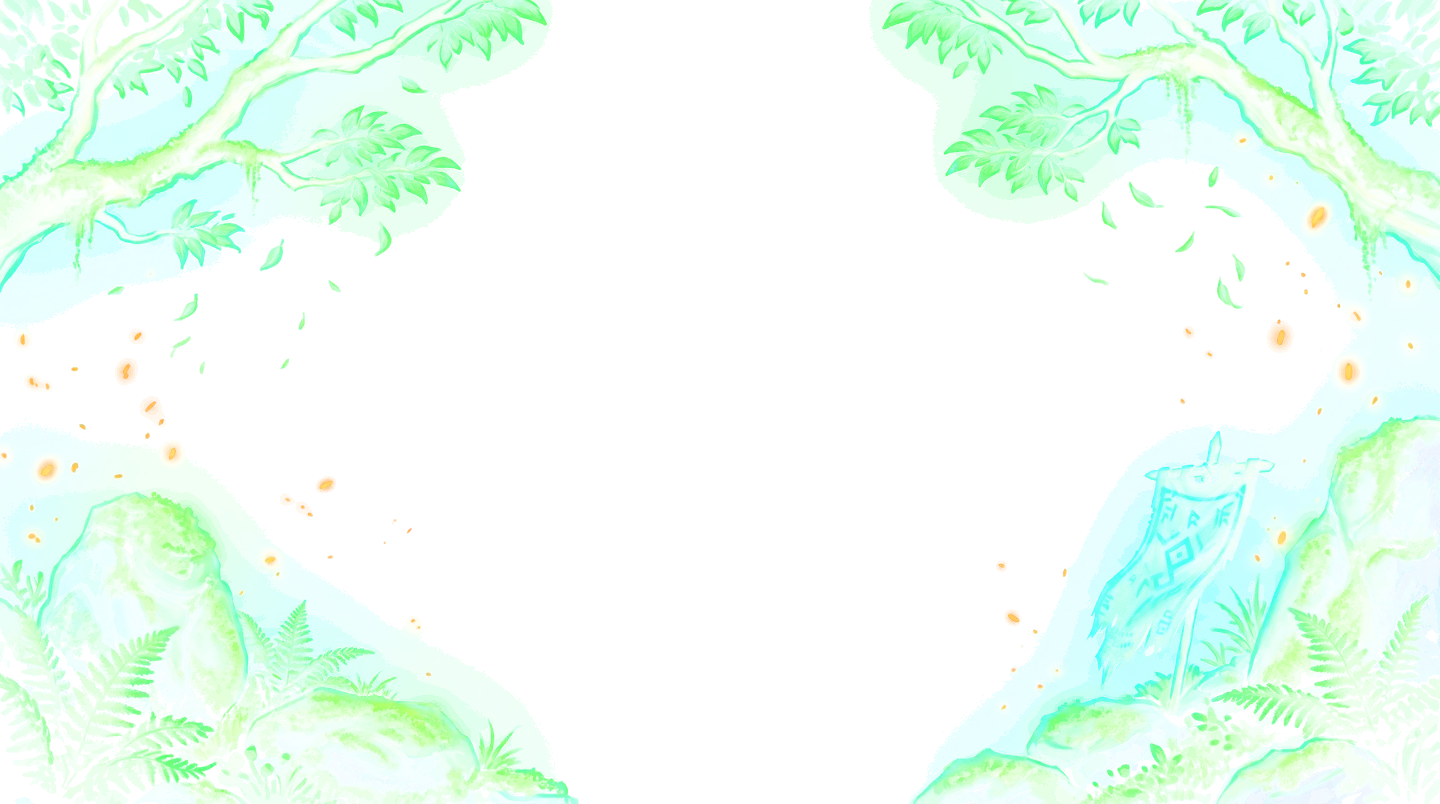
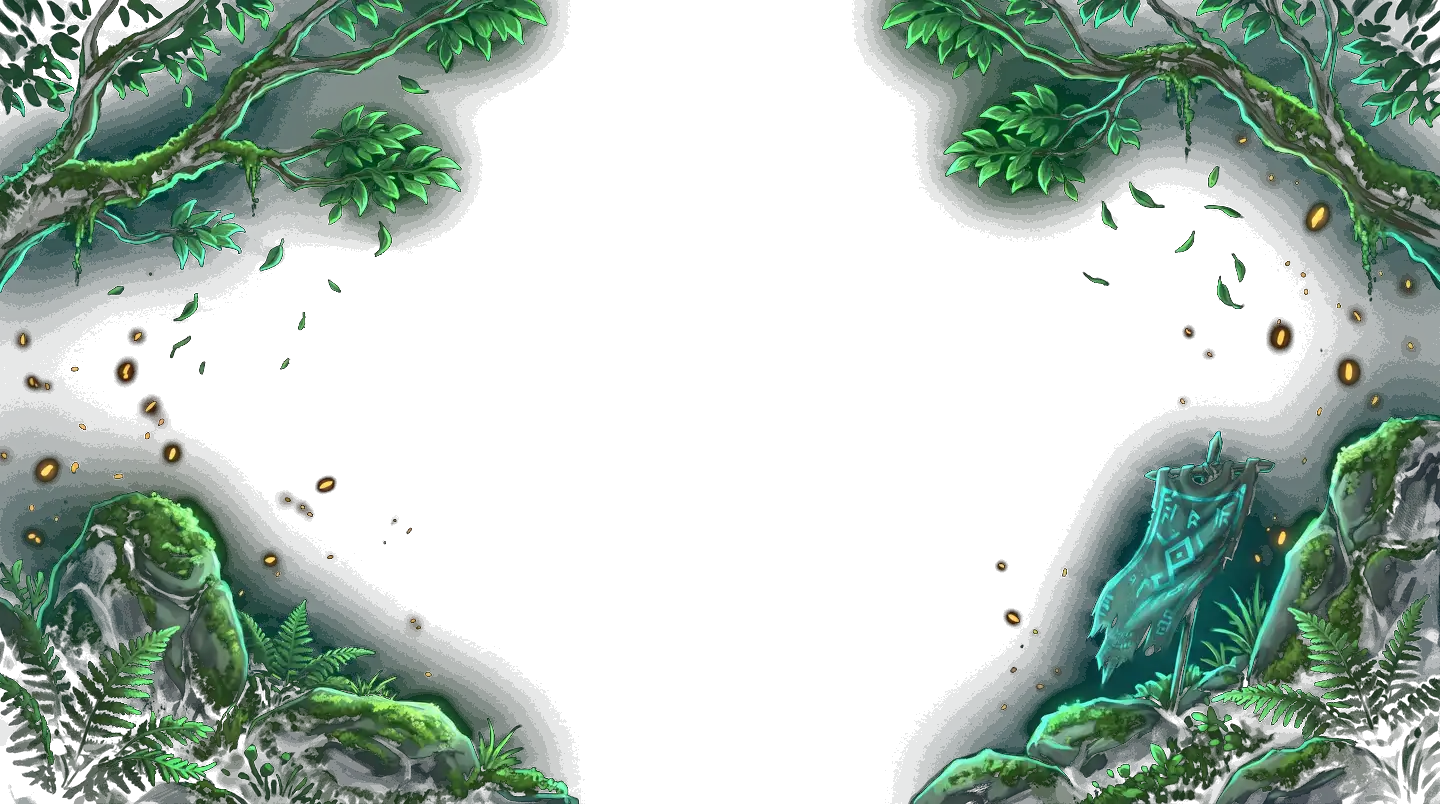
Marcos oscuros y solidos; efectos separados por grupo en Mi Perfil

diff --git a/src/features/auth/components/ProfileMenu.tsx b/src/features/auth/components/ProfileMenu.tsx
@@ -4,7 +4,7 @@ import { CircleUserRound, KeyRound, LogOut } from 'lucide-react'
 import { useAuth } from '@/features/auth/AuthProvider'
 import { useAiEnabled, useAiProfileContext, useSetAiEnabled, useSetAiProfileContext } from '@/features/ai/hooks'
 import { ContextField } from '@/features/ai/components/ContextField'
-import { effectsEnabled, setEffects } from '@/utils/effects'
+import { FX_GROUPS, disabledGroups, setDisabledGroups, type FxGroup } from '@/utils/effects'
 
 export function ProfileMenu() {
   const { session, signOut } = useAuth()
@@ -15,7 +15,12 @@ export function ProfileMenu() {
   const setProfile = useSetAiProfileContext()
   const [profileDraft, setProfileDraft] = useState<string | null>(null)
   const profileText = profileDraft ?? savedProfile
-  const [fx, setFx] = useState(effectsEnabled)
+  const [fxOff, setFxOff] = useState<FxGroup[]>(disabledGroups)
+
+  function updateFx(next: FxGroup[]) {
+    setFxOff(next)
+    setDisabledGroups(next)
+  }
 
   return (
     <div className="relative">
@@ -41,23 +46,35 @@ export function ProfileMenu() {
                 </p>
               )}
             </div>
-            <label className="mt-1 flex cursor-pointer items-start gap-2 rounded-md px-2 py-1.5 hover:bg-surface-2">
-              <input
-                type="checkbox"
-                checked={fx}
-                onChange={(e) => {
-                  setFx(e.target.checked)
-                  setEffects(e.target.checked)
-                }}
-                className="mt-0.5 h-4 w-4 shrink-0 accent-[var(--accent)]"
-              />
-              <span className="text-sm text-fg">
-                Efectos
-                <span className="mt-0.5 block text-xs leading-snug text-fg-muted">
-                  Enredaderas, transiciones y movimiento decorativo. Apágalo si te distrae.
-                </span>
-              </span>
-            </label>
+            <details className="mt-1 rounded-md px-2 py-1.5">
+              <summary className="cursor-pointer select-none text-sm text-fg">
+                Efectos · {FX_GROUPS.length - fxOff.length} de {FX_GROUPS.length} activos
+              </summary>
+              <div className="mt-2 space-y-1">
+                {FX_GROUPS.map((g) => (
+                  <label key={g.key} className="flex cursor-pointer items-start gap-2 rounded-md py-1 hover:bg-surface-2">
+                    <input
+                      type="checkbox"
+                      checked={!fxOff.includes(g.key)}
+                      onChange={(e) => updateFx(e.target.checked ? fxOff.filter((k) => k !== g.key) : [...fxOff, g.key])}
+                      className="mt-0.5 h-4 w-4 shrink-0 accent-[var(--accent)]"
+                    />
+                    <span className="text-sm text-fg">
+                      {g.label}
+                      <span className="block text-xs leading-snug text-fg-muted">{g.hint}</span>
+                    </span>
+                  </label>
+                ))}
+                <div className="flex gap-3 pt-1 font-mono text-xs">
+                  <button type="button" onClick={() => updateFx([])} className="text-accent underline underline-offset-2">
+                    Todos
+                  </button>
+                  <button type="button" onClick={() => updateFx(FX_GROUPS.map((g) => g.key))} className="text-fg-muted underline underline-offset-2">
+                    Ninguno
+                  </button>
+                </div>
+              </div>
+            </details>
             <label className="mt-1 flex cursor-pointer items-start gap-2 rounded-md px-2 py-1.5 hover:bg-surface-2">
               <input
                 type="checkbox"

diff --git a/src/utils/effects.ts b/src/utils/effects.ts
@@ -1,24 +1,47 @@
-// Interruptor de «Efectos» (movimiento decorativo). Se guarda por dispositivo y se aplica como
-// data-fx en <html>; el CSS apaga las animaciones decorativas con [data-fx='off'].
-const KEY = 'questly_fx'
+// Interruptores de «Efectos» (movimiento decorativo), por grupo. Se guardan por dispositivo y se aplican
+// como `data-fx-off="<grupos apagados>"` en <html>; el CSS apaga cada grupo con `[data-fx-off~='<grupo>']`.
+export type FxGroup = 'transitions' | 'vine' | 'world' | 'art' | 'game'
 
-export function effectsEnabled(): boolean {
+export const FX_GROUPS: { key: FxGroup; label: string; hint: string }[] = [
+  { key: 'transitions', label: 'Transiciones y entradas', hint: 'Cambio de pantalla y animaciones de bienvenida.' },
+  { key: 'vine', label: 'Enredadera del menú', hint: 'Crece al abrir el Menú del Héroe.' },
+  { key: 'world', label: 'Mundo vivo', hint: 'Hojas, brasas, niebla, antorchas y destellos.' },
+  { key: 'art', label: 'Fondos en movimiento', hint: 'Deriva lenta y parallax; apagado, quedan fijos.' },
+  { key: 'game', label: 'Animaciones de combate', hint: 'Golpe final, vida que se rompe y jefe.' },
+]
+
+const KEY = 'questly_fx_off'
+const OLD_KEY = 'questly_fx' // versión anterior: un solo interruptor 'on' / 'off'
+const ALL = FX_GROUPS.map((g) => g.key)
+
+export function disabledGroups(): FxGroup[] {
   try {
-    return localStorage.getItem(KEY) !== 'off'
+    const raw = localStorage.getItem(KEY)
+    if (raw !== null) return (JSON.parse(raw) as string[]).filter((k): k is FxGroup => (ALL as string[]).includes(k))
+    return localStorage.getItem(OLD_KEY) === 'off' ? ALL : []
   } catch {
-    return true
+    return []
   }
 }
 
-export function setEffects(on: boolean) {
-  document.documentElement.dataset.fx = on ? 'on' : 'off'
+function apply(off: FxGroup[]) {
+  document.documentElement.dataset.fxOff = off.join(' ')
+}
+
+export function setDisabledGroups(off: FxGroup[]) {
+  apply(off)
   try {
-    localStorage.setItem(KEY, on ? 'on' : 'off')
+    localStorage.setItem(KEY, JSON.stringify(off))
   } catch {
     // sin localStorage: solo no se recuerda
   }
 }
 
+// ¿Está apagado este grupo ahora mismo? (lee el atributo: barato, apto para eventos frecuentes)
+export function groupOff(group: FxGroup): boolean {
+  return (document.documentElement.dataset.fxOff ?? '').split(' ').includes(group)
+}
+
 export function initEffects() {
-  document.documentElement.dataset.fx = effectsEnabled() ? 'on' : 'off'
+  apply(disabledGroups())
 }

diff --git a/src/features/world/world.css b/src/features/world/world.css
@@ -20,6 +20,16 @@
   transform: translate3d(calc(var(--px, 0) * var(--k) * 1px), calc(var(--py, 0) * var(--k) * 1px), 0);
   transition: transform 0.3s ease-out;
 }
+/* Versión fija y centrada: sin desborde, sin parallax y sin deriva. */
+.world-art-wrap.world-art-still {
+  inset: 0;
+  transform: none;
+  transition: none;
+}
+.world-art-still .world-art {
+  animation: none;
+  object-position: 50% 50%;
+}
 .world-art-back {
   --k: -8;
 }
@@ -38,7 +48,8 @@
   opacity: 0.28; /* paisaje completo: oscuro y misterioso, sin restar contraste al contenido */
 }
 .world-art-front .world-art.is-loaded {
-  opacity: 0.6; /* marco con transparencia real (el negro ya es alfa) */
+  opacity: 0.9; /* marco sólido (opaco): lo oscuro es oscuro, no se mezcla con el paisaje; el tono se regula con brightness */
+  filter: brightness(0.55);
 }
 @keyframes world-drift {
   from {
@@ -277,16 +288,16 @@
   }
 }
 
-html[data-fx='off'] .world-p,
-html[data-fx='off'] .world-spark {
+html[data-fx-off~='world'] .world-p,
+html[data-fx-off~='world'] .world-spark {
   display: none;
 }
-html[data-fx='off'] .world-scene,
-html[data-fx='off'] .world-art,
-html[data-fx='off'] .world-torch,
-html[data-fx='off'] .world-mist,
-html[data-fx='off'] .world-line,
-html[data-fx='off'] .world-star {
+html[data-fx-off~='world'] .world-scene,
+html[data-fx-off~='art'] .world-art,
+html[data-fx-off~='world'] .world-torch,
+html[data-fx-off~='world'] .world-mist,
+html[data-fx-off~='world'] .world-line,
+html[data-fx-off~='world'] .world-star {
   animation: none;
 }
 @media (prefers-reduced-motion: reduce) {

diff --git a/src/features/battle-hud/components/CombatSlotCard.tsx b/src/features/battle-hud/components/CombatSlotCard.tsx
@@ -9,7 +9,7 @@ import { RescheduleButtons } from '@/features/tasks/components/RescheduleButtons
 import { isOverdue } from '@/utils/datetime'
 import { useUnequipHudSlot } from '@/features/battle-hud/hooks'
 import { WEAPON_ICONS } from '@/utils/rpgAssets'
-import { effectsEnabled } from '@/utils/effects'
+import { groupOff } from '@/utils/effects'
 import type { Task, TaskSize } from '@/types/database.types'
 
 const DIFFICULTY_LABEL: Record<TaskSize, { label: string; xp: number }> = {
@@ -68,7 +68,7 @@ export function CombatSlotCard({
   function handleGolpeFinal() {
     if (striking) return
     const finish = () => completeTask.mutate({ id: task.id, project_id: task.project_id })
-    if (!effectsEnabled() || window.matchMedia('(prefers-reduced-motion: reduce)').matches) {
+    if (groupOff('game') || window.matchMedia('(prefers-reduced-motion: reduce)').matches) {
       finish()
       return
     }

diff --git a/src/features/world/WorldLayer.tsx b/src/features/world/WorldLayer.tsx
@@ -1,6 +1,7 @@
 import { useEffect, useRef } from 'react'
 import { useLocation } from 'react-router-dom'
 import { CombatScene, InboxScene, StrategyScene } from '@/features/world/scenes'
+import { groupOff } from '@/utils/effects'
 import './world.css'
 
 // Escena de fondo según la pantalla (fija, detrás del contenido; ver world.css). Las pantallas sin
@@ -25,7 +26,7 @@ export function WorldLayer() {
       cancelAnimationFrame(raf)
       raf = requestAnimationFrame(() => {
         const el = ref.current
-        if (!el || document.documentElement.dataset.fx === 'off') return
+        if (!el || groupOff('art')) return
         el.style.setProperty('--px', String((e.clientX / window.innerWidth) * 2 - 1))
         el.style.setProperty('--py', String((e.clientY / window.innerHeight) * 2 - 1))
       })
